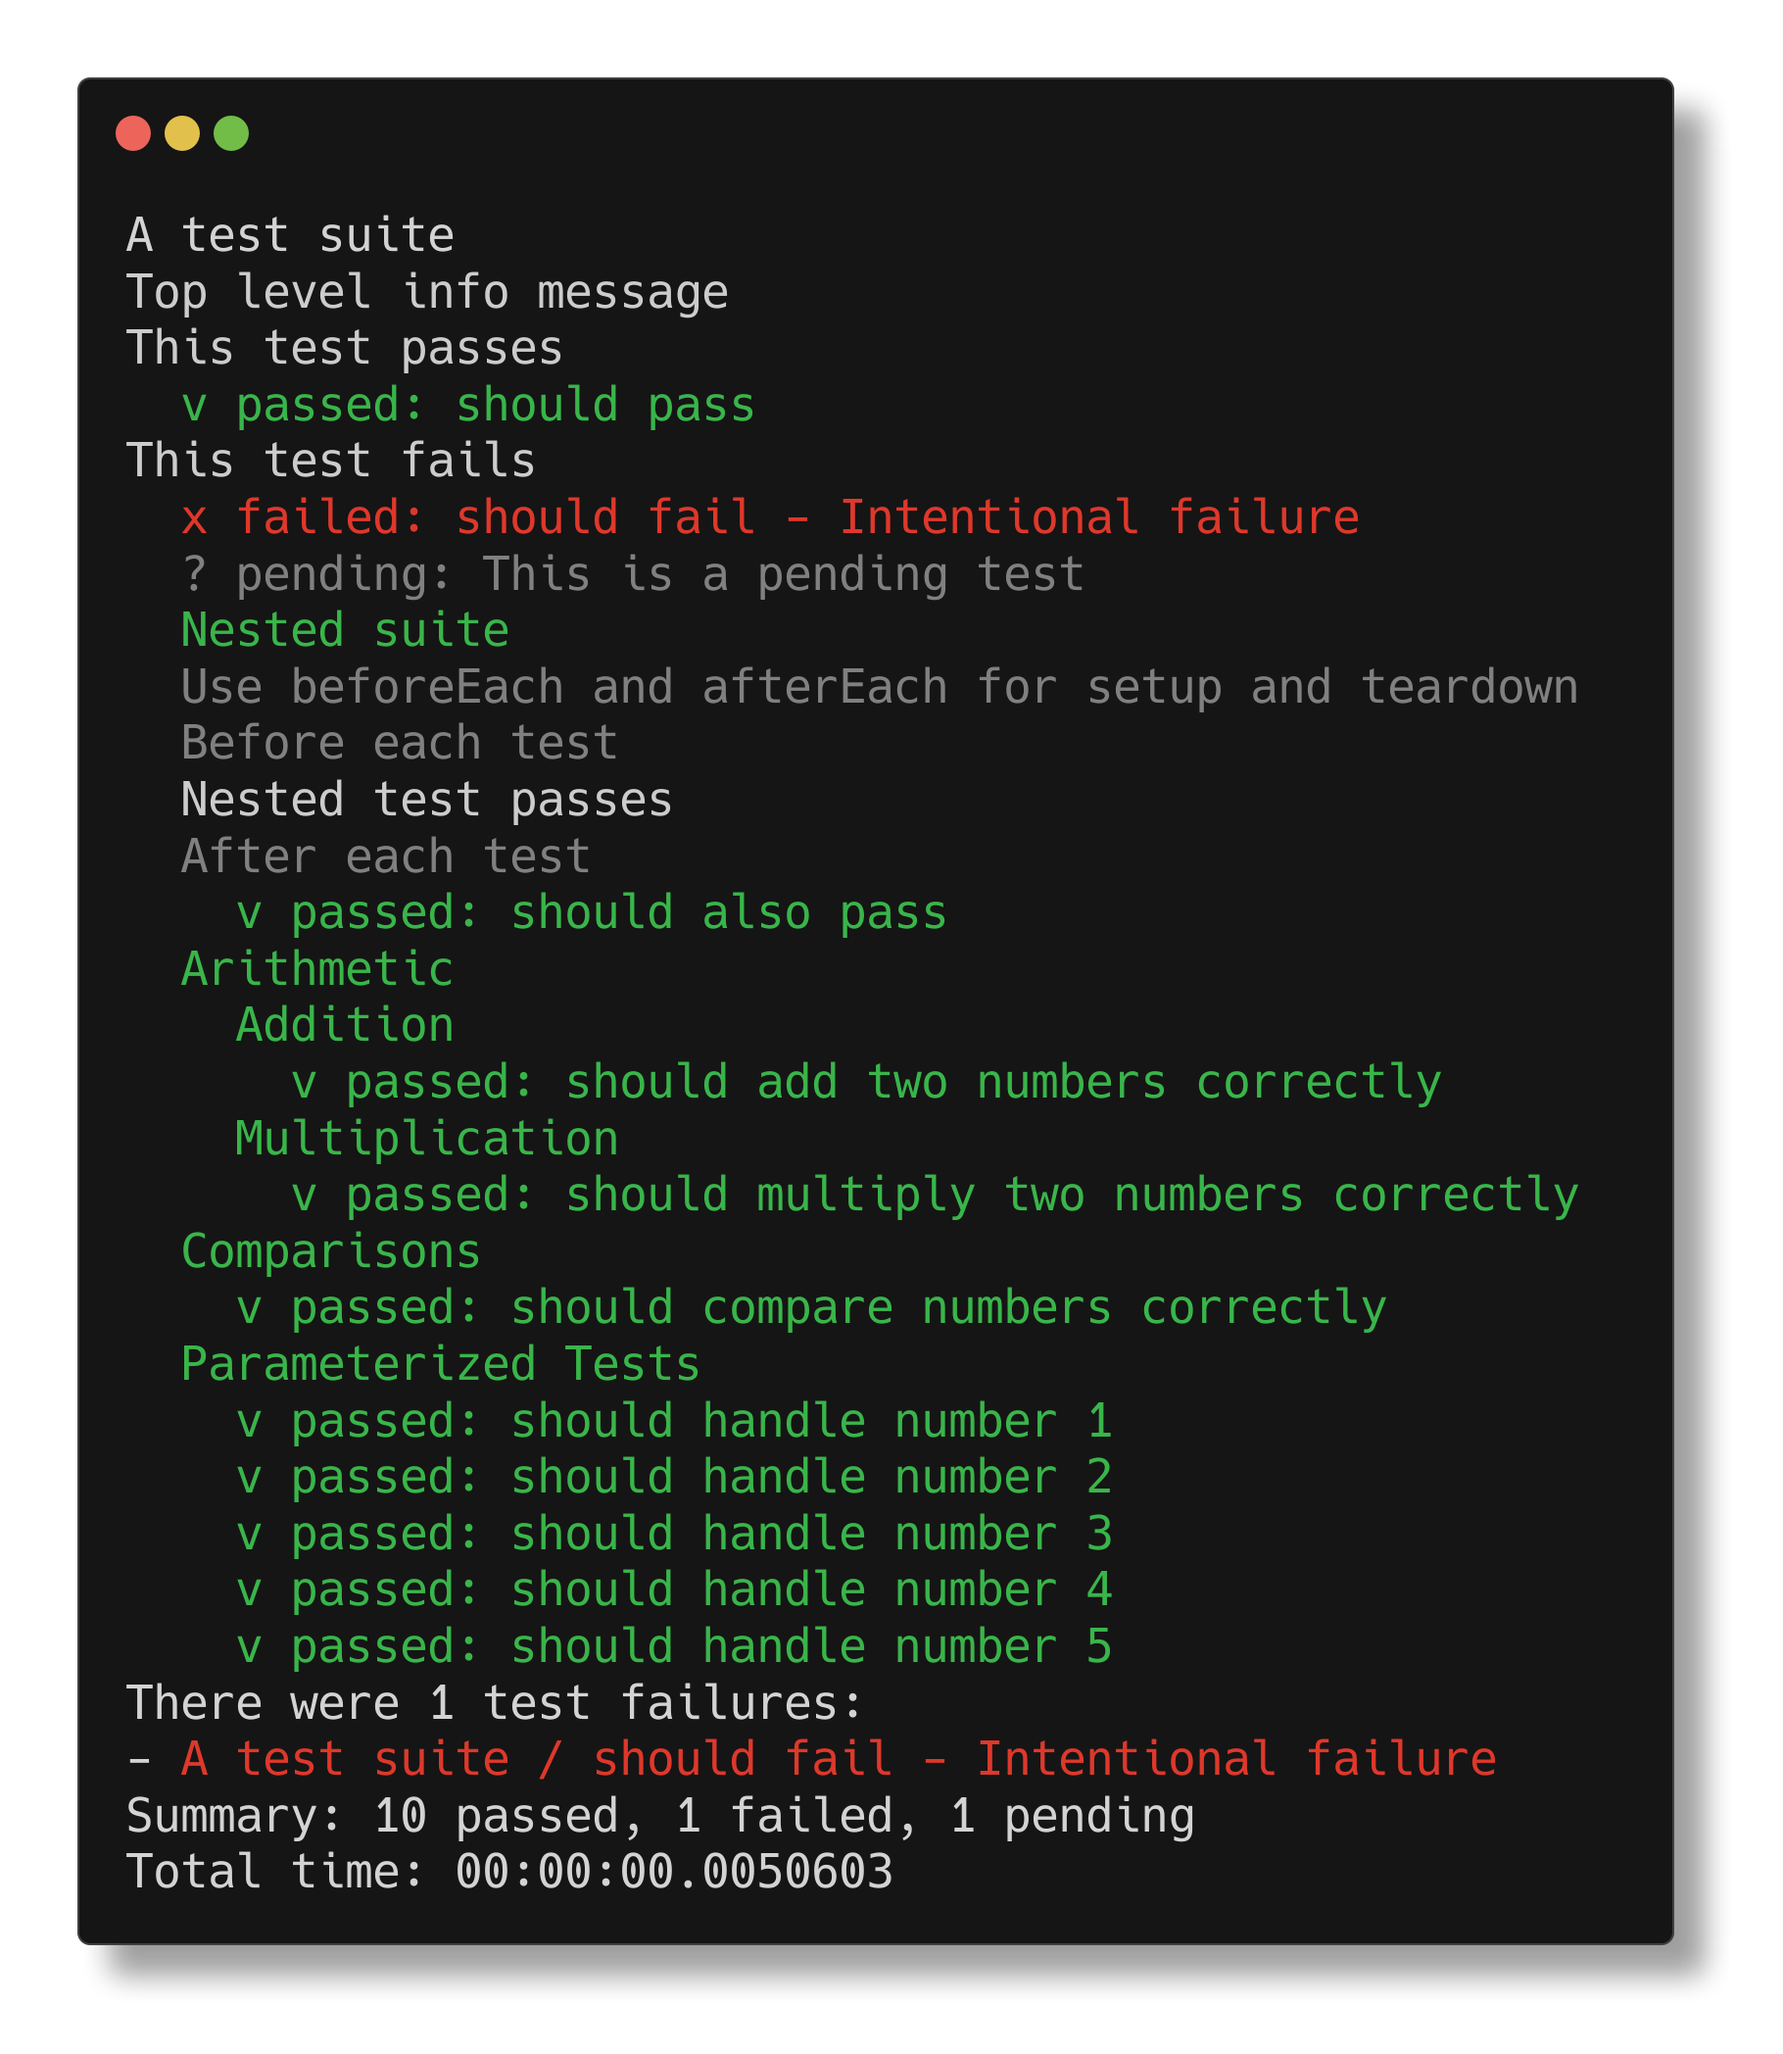
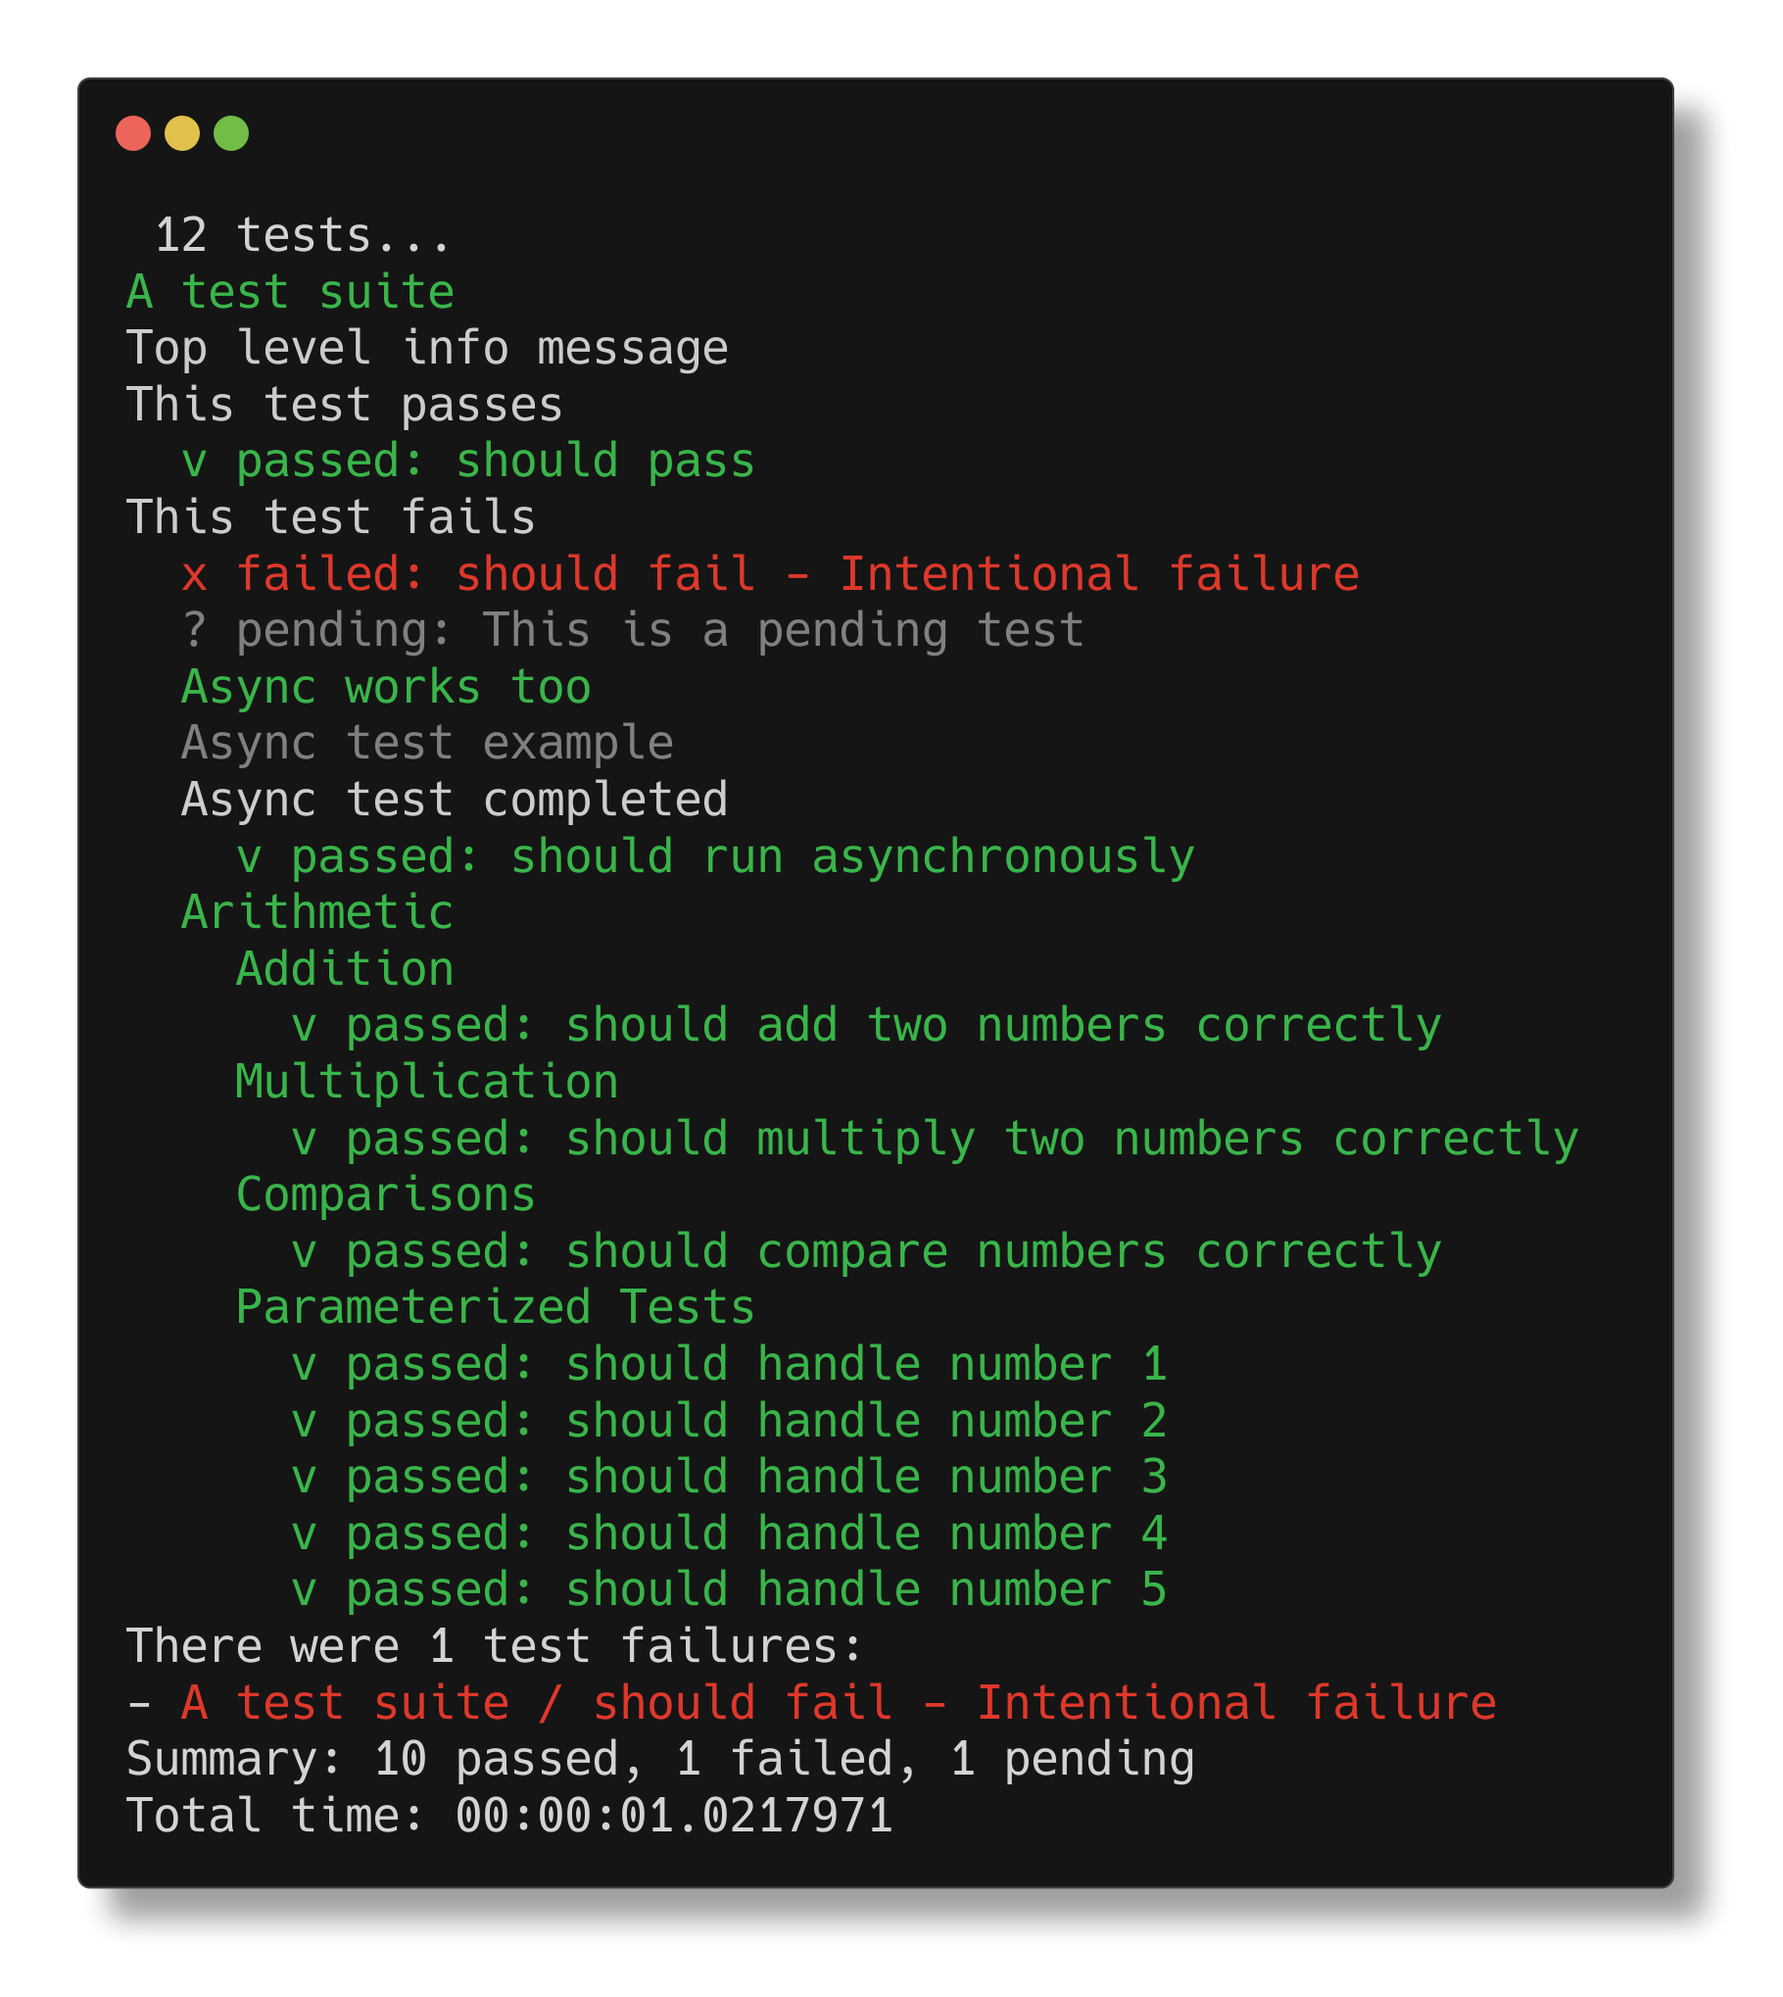
feat: enhance test suite with async support and improved structure

diff --git a/Readme.md b/Readme.md
@@ -51,8 +51,15 @@ open Sprout
 
 let suite = describe "A test suite" {
   Info "Top level info message"
+
+  // variables may be used to store state across tests
+  let mutable b = false
+  beforeEach { b <- true }
   it "should pass" {
     info "This test passes"
+
+    // simple assertions included out-of-the-box
+    b |> shouldBeTrue
   }
 
   it "should fail" {
@@ -60,22 +67,20 @@ let suite = describe "A test suite" {
     failwith "Intentional failure"
   }
 
+  // use pending to mark tests that are not yet implemented
   pending "This is a pending test"
 
-  describe "Nested suite" {
-    Debug "Use beforeEach and afterEach for setup and teardown"
-    beforeEach {
-      debug "Before each test"
-    }
+  describe "Async works too" {
+    Debug "Async test example"
 
-    afterEach {
-      debug "After each test"
-    }
-    it "should also pass" {
-      info "Nested test passes"
+    // asynchronous flows are supported
+    it "should run asynchronously" {
+      do! Async.Sleep 1000
+      info "Async test completed"
     }
   }
 
+  // use nested suites to organize tests
   describe "Arithmetic" {
     describe "Addition" {
       it "should add two numbers correctly" {
@@ -90,24 +95,30 @@ let suite = describe "A test suite" {
         result |> shouldEqual 9
       }
     }
-  }
 
-  describe "Comparisons" {
-    debug "Testing comparisons"
-    it "should compare numbers correctly" {
-      5 > 3 |> shouldBeTrue
+    describe "Comparisons" {
+      debug "Testing comparisons"
+      it "should compare numbers correctly" {
+        5 > 3 |> shouldBeTrue
+      }
+    }
+
+    // parameterized tests are supported using regular F# loops
+    // type-safe as expected without any special syntax
+    describe "Parameterized Tests" {
+      info "Simply embed test cases and loop over them"
+      let numbers = [1; 2; 3; 4; 5]
+      for n in numbers do
+        it $"should handle number {n}" {
+          n > 0 |> shouldBeTrue
+        }
     }
   }
-
-  describe "Parameterized Tests" {
-    info "Simply embed test cases and loop over them"
-    let numbers = [1; 2; 3; 4; 5]
-    for n in numbers do
-      it $"should handle number {n}" {
-        n > 0 |> shouldBeTrue
-      }
-  }
 }
+
+// Run the test suite asynchronously
+runTestSuite
+|> Async.RunSynchronously
 ```
 
 Output:
